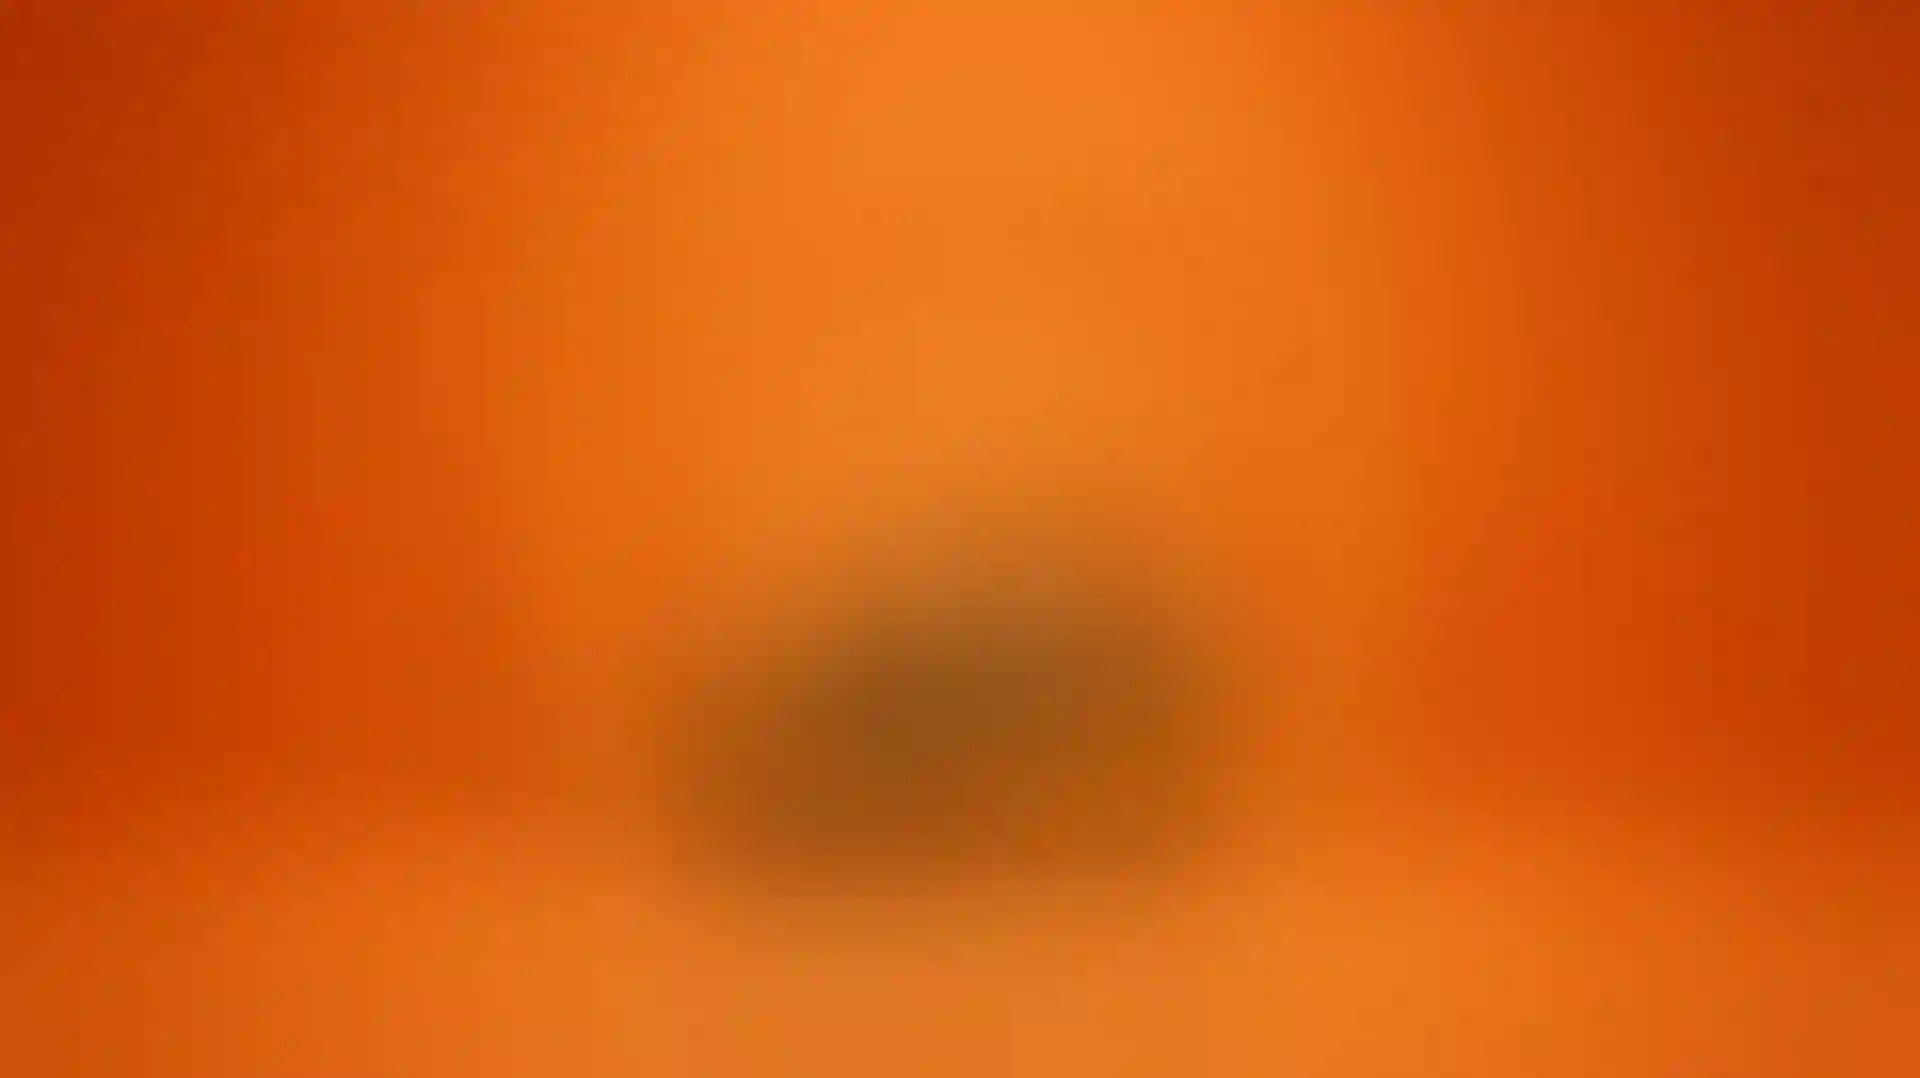
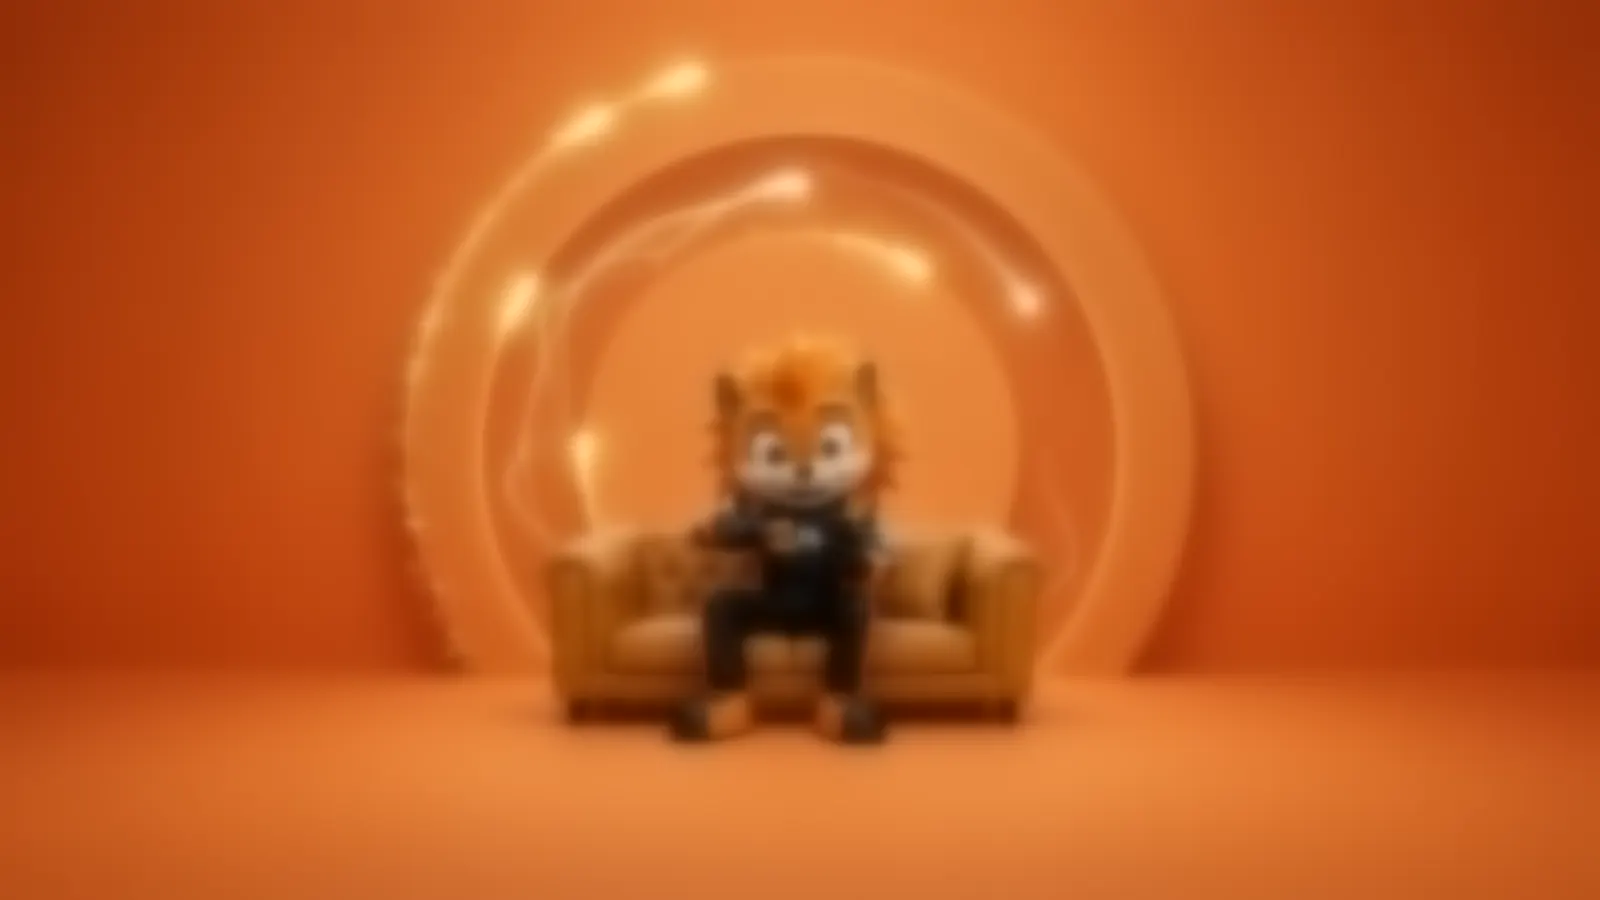
LCP: da a hero um candidato real, e solta 62 camadas presas
O LCP da pagina era o <video>, aos 4,8s. A causa nao era obvia: o Chrome
descarta imagens de entropia muito baixa como candidatas a LCP, por
trata-las como placeholder. O fundo pre-borrado tinha 5,9 KB em 2,07 Mpx
= 0,023 bits por pixel, abaixo do corte de 0,05, entao ele pintava cedo
mas nao contava, e a metrica caia no video la na frente.

O fundo foi regerado com conteudo de verdade: 14 KB, 0,080 bpp, e a
variante que o Next serve fica em 0,283 bpp. Isso nao e truque de
metrica: em conexao lenta o video nunca chega, entao essa imagem e
literalmente a hero que a pessoa ve, e antes ela era um borrao de 5 KB.

Passa tambem de background-image de CSS para <img priority>. Um
background so e descoberto depois de baixar e casar o CSS; com priority
o Next emite o preload, entao o download comeca junto com o HTML.
Conferido no navegador: o <link rel=preload as=image> esta la.

E o will-change estava presente em 71 elementos de forma permanente,
somando ~6 MB de camadas de composicao que o navegador segura para
sempre. Sao animacoes que rodam UMA vez: 58 vinham de .split-word, uma
camada por palavra do titulo, e 13 do ScrollReveal.

.split-word perde a dica de vez — o GSAP ja faz o equivalente sozinho,
promovendo durante o tween e soltando ao terminar, que e o
comportamento correto. O ScrollReveal solta no transitionend, testando
e.target === e.currentTarget porque o evento borbulha e um filho
encerraria a dica cedo demais.
[…]

diff --git a/components/Hero.tsx b/components/Hero.tsx
@@ -15,14 +15,28 @@ export default function Hero() {
       {/* Fundo quente (visível antes do vídeo carregar) */}
       <div className="absolute inset-0 bg-[radial-gradient(100%_100%_at_50%_20%,#b8541c_0%,#7a3212_55%,#3a1608_100%)]" />
 
-      {/* Preenchimento: imagem estática pré-borrada (downscale + blur + noise
-          via ffmpeg), preenche a tela toda sem emenda. Usar uma imagem em vez
-          de desfocar o vídeo ao vivo evita blocos de compressão ampliados
-          pelo blur do navegador. */}
-      <div
-        aria-hidden
-        className="absolute inset-0 scale-105 bg-cover bg-center"
-        style={{ backgroundImage: "url(/hero-bg-blurred.webp)" }}
+      {/* Preenchimento: imagem estática pré-borrada, preenche a tela toda sem
+          emenda. Usar uma imagem em vez de desfocar o vídeo ao vivo evita
+          blocos de compressão ampliados pelo blur do navegador.
+
+          É um <img> com priority, e não mais um background-image de CSS, por
+          dois motivos. O navegador só descobre um background depois de baixar
+          e casar o CSS; com <img priority> o Next emite um preload e o
+          fetchpriority=high, então ele começa junto com o HTML.
+
+          E o Chrome descarta imagens de entropia muito baixa como candidatas a
+          LCP, por considerá-las placeholder. A versão anterior tinha 5,9 KB em
+          2,07 Mpx = 0,023 bits por pixel, abaixo do corte de 0,05, e por isso
+          o LCP da página caía no <video> lá nos 4,8s. Esta tem 0,080 bpp.
+          Não é truque de métrica: em conexão lenta o vídeo nunca chega, então
+          esta imagem é literalmente a hero que a pessoa vê. */}
+      <Image
+        src="/hero-bg-blurred.webp"
+        alt=""
+        fill
+        priority
+        sizes="100vw"
+        className="scale-105 object-cover"
       />
 
       {/* Vídeo do hero (nítido, travado em 16:9, bordas esfumadas para

diff --git a/components/ScrollReveal.tsx b/components/ScrollReveal.tsx
@@ -46,6 +46,12 @@ export default function ScrollReveal({
 }: ScrollRevealProps) {
   const ref = useRef<HTMLDivElement>(null);
   const [isVisible, setIsVisible] = useState(false);
+  /* will-change promove o elemento a uma camada própria de composição, e o
+     navegador a MANTÉM enquanto a propriedade estiver lá. Como cada seção tem
+     vários ScrollReveal e a revelação acontece uma única vez, deixar a dica
+     fixa custa memória de GPU para sempre em troca de nada. Solta-se assim que
+     a transição termina. */
+  const [revelado, setRevelado] = useState(false);
 
   useEffect(() => {
     const node = ref.current;
@@ -89,11 +95,20 @@ export default function ScrollReveal({
     opacity: isVisible ? 1 : 0,
     transform: isVisible ? "none" : initialTransform(direction, distance),
     transition: `opacity ${duration}ms ${EASE} ${delay}ms, transform ${duration}ms ${EASE} ${delay}ms`,
-    willChange: "opacity, transform",
+    willChange: revelado ? undefined : "opacity, transform",
   };
 
   return (
-    <div ref={ref} className={className} style={style}>
+    <div
+      ref={ref}
+      className={className}
+      style={style}
+      /* Só a transição DESTE elemento conta: transitionend borbulha, e sem o
+         teste qualquer transição de um filho encerraria a dica cedo demais. */
+      onTransitionEnd={(e) => {
+        if (e.target === e.currentTarget) setRevelado(true);
+      }}
+    >
       {children}
     </div>
   );

diff --git a/app/globals.css b/app/globals.css
@@ -422,7 +422,12 @@
   }
 }
 
-.split-word { display: inline-block; will-change: transform; }
+/* Sem will-change: eram 58 palavras, ou seja 58 camadas de composição que o
+   navegador segurava para sempre por causa de uma animação que roda uma vez.
+   O GSAP já faz o equivalente sozinho — com force3D "auto" ele promove o
+   elemento durante o tween e o solta ao terminar, que é o comportamento
+   correto para uma dica de otimização. */
+.split-word { display: inline-block; }
 .split-line-mask {
   display: inline-block;
   overflow: hidden;
